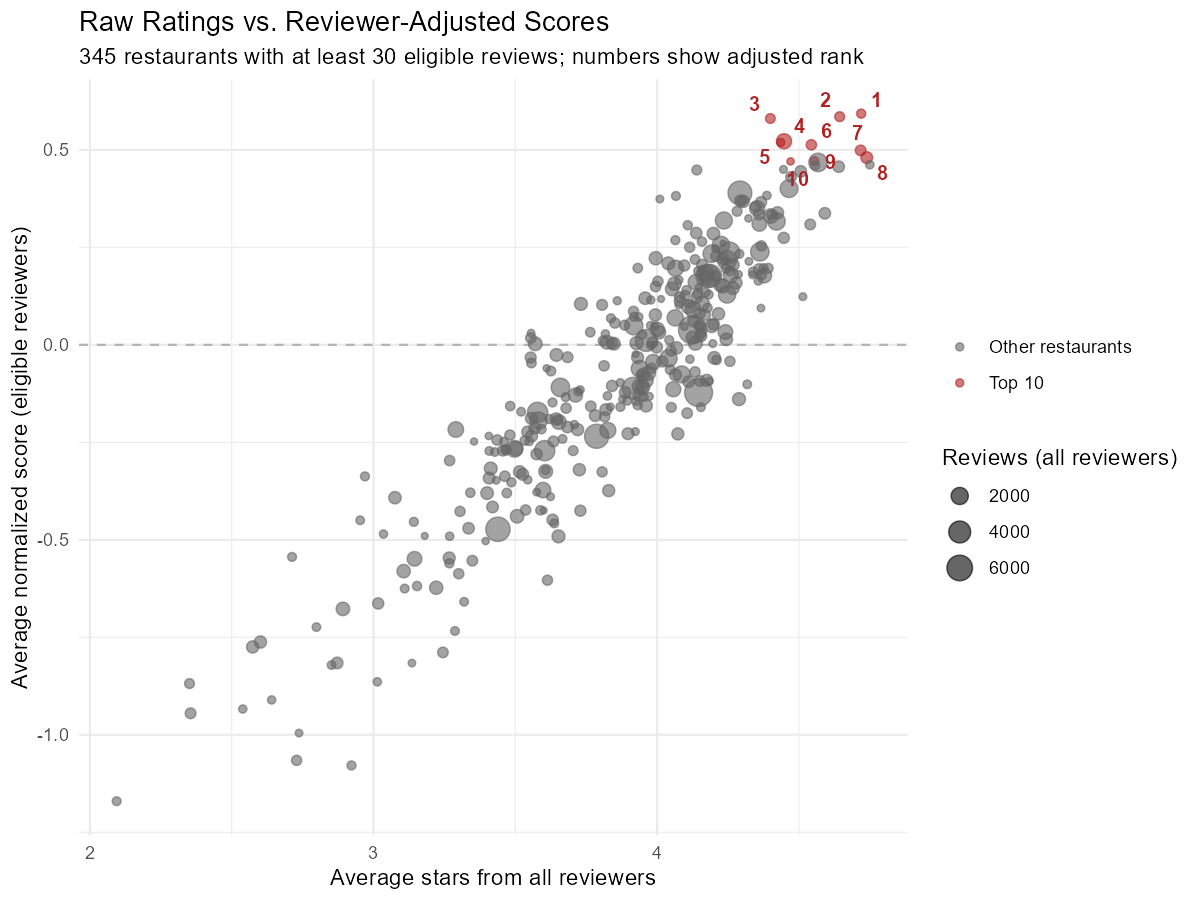
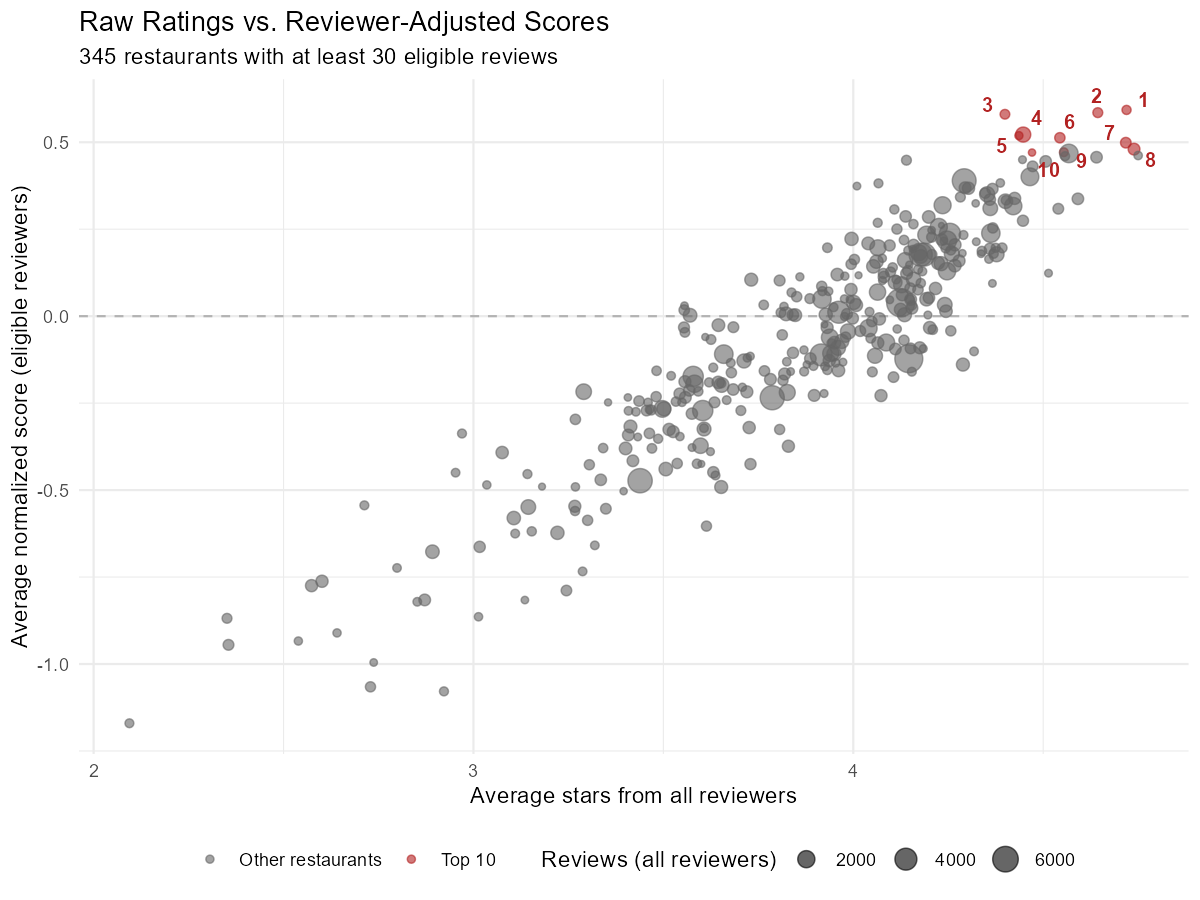
Fix Step 7 chunk and re-render report

diff --git a/yelp_new_orleans_project.md b/yelp_new_orleans_project.md
@@ -5,6 +5,7 @@
 library(tidyverse)
 library(sf)
 library(tigris)
+library(ggrepel)
 options(tigris_use_cache = TRUE)
 dir.create("figures", showWarnings = FALSE)
 ```
@@ -323,6 +324,364 @@ ggsave("figures/tract_map.png", p_tract, width = 8, height = 6, dpi = 150)
 - **What tracts would show.** Tracts give finer detail but spread the
   restaurants too thin for reliable comparison.
 
+## Step 7: All reviewers vs. reviewer-adjusted ratings
+
+This step uses the 656 restaurants inside the official New Orleans
+boundary. The reviews are individual star ratings (`stars` in the review
+table, not the restaurant’s overall rating).
+
+``` r
+study_ids <- new_orleans_map_data |> st_drop_geometry() |> pull(business_id)
+
+study_reviews <- reviews |> filter(business_id %in% study_ids)
+
+c(reviews = nrow(study_reviews),
+  restaurants = n_distinct(study_reviews$business_id),
+  reviewers = n_distinct(study_reviews$user_id))
+```
+
+        reviews restaurants   reviewers 
+         249002         656      138367 
+
+``` r
+all_reviewer_summary <- study_reviews |>
+  group_by(business_id) |>
+  summarise(number_of_reviews_all_reviewers = n(),
+            average_stars_all_reviewers = mean(stars),
+            median_stars_all_reviewers = median(stars),
+            .groups = "drop")
+
+summary(all_reviewer_summary$number_of_reviews_all_reviewers)
+```
+
+       Min. 1st Qu.  Median    Mean 3rd Qu.    Max. 
+        5.0    28.0   111.0   379.6   393.0  7673.0 
+
+### Which reviewers are eligible?
+
+A reviewer with one review in this group has a baseline equal to that
+single rating, so their normalized score is always exactly 0 and carries
+no information. I need a minimum activity level.
+
+``` r
+reviewer_activity <- study_reviews |>
+  count(user_id, name = "reviews_in_selected_categories")
+
+map_dfr(c(1, 2, 3, 5, 10), function(k) {
+  elig <- reviewer_activity |> filter(reviews_in_selected_categories >= k)
+  tibble(
+    min_reviews        = k,
+    reviewers_kept     = nrow(elig),
+    share_of_reviewers = round(nrow(elig) / nrow(reviewer_activity), 3),
+    reviews_kept       = sum(elig$reviews_in_selected_categories),
+    share_of_reviews   = round(sum(elig$reviews_in_selected_categories) /
+                                 nrow(study_reviews), 3)
+  )
+}) |> knitr::kable()
+```
+
+| min_reviews | reviewers_kept | share_of_reviewers | reviews_kept | share_of_reviews |
+|------------:|---------------:|-------------------:|-------------:|-----------------:|
+|           1 |         138367 |              1.000 |       249002 |            1.000 |
+|           2 |          45550 |              0.329 |       156185 |            0.627 |
+|           3 |          21861 |              0.158 |       108807 |            0.437 |
+|           5 |           7066 |              0.051 |        59584 |            0.239 |
+|          10 |           1380 |              0.010 |        25125 |            0.101 |
+
+I used a minimum of **5 reviews** per reviewer. That keeps 7,066
+reviewers (5.1% of reviewers) who wrote 59,584 reviews (23.9% of all
+reviews). A higher cutoff gives each reviewer a more trustworthy
+baseline but discards most of the data: at 10 reviews only 1.0% of
+reviewers and 10.1% of reviews remain. A lower cutoff keeps more reviews
+but with weaker baselines: at 2 reviews, 62.7% of reviews remain, but
+each baseline rests on very little.
+
+### Normalizing each reviewer’s scores
+
+Each reviewer’s baseline is their mean rating across the selected
+restaurants. The normalized score is the rating minus that baseline, so
+it measures whether a reviewer rated a restaurant higher or lower than
+they usually do. It is not a new Yelp rating.
+
+I used the **mean** baseline instead of the median because star ratings
+are whole numbers, so a reviewer’s median can take only five values and
+hides the difference between, for example, a reviewer who averages 3.6
+and one who averages 4.4 (both can have a median of 4).
+
+``` r
+adjust_reviews <- function(min_reviews = 5) {
+  baselines <- study_reviews |>
+    group_by(user_id) |>
+    summarise(reviewer_mean = mean(stars),
+              reviewer_median = median(stars),
+              reviewer_review_count = n(),
+              .groups = "drop")
+
+  study_reviews |>
+    left_join(baselines, by = "user_id") |>
+    filter(reviewer_review_count >= min_reviews) |>
+    mutate(normalized_mean_score = stars - reviewer_mean,
+           normalized_median_score = stars - reviewer_median)
+}
+
+eligible_adjusted_reviews <- adjust_reviews(5)
+
+nrow(eligible_adjusted_reviews)
+```
+
+    [1] 59584
+
+``` r
+# each reviewer's scores average to 0 by construction, so this should be ~0
+mean(eligible_adjusted_reviews$normalized_mean_score)
+```
+
+    [1] -4.961639e-18
+
+### Restaurant-level comparison
+
+``` r
+restaurant_summary <- all_reviewer_summary |>
+  left_join(
+    eligible_adjusted_reviews |>
+      group_by(business_id) |>
+      summarise(number_of_reviews_eligible_reviewers = n(),
+                average_stars_eligible_reviewers = mean(stars),
+                average_normalized_score = mean(normalized_mean_score),
+                median_normalized_score = median(normalized_mean_score),
+                .groups = "drop"),
+    by = "business_id") |>
+  left_join(new_orleans_map_data |> st_drop_geometry() |>
+              select(business_id, business_name), by = "business_id")
+
+sum(is.na(restaurant_summary$number_of_reviews_eligible_reviewers))
+```
+
+    [1] 9
+
+``` r
+map_dfr(c(5, 10, 20, 30), function(k)
+  tibble(min_eligible_reviews = k,
+         restaurants_kept = sum(restaurant_summary$number_of_reviews_eligible_reviewers >= k,
+                                na.rm = TRUE))) |> knitr::kable()
+```
+
+| min_eligible_reviews | restaurants_kept |
+|---------------------:|-----------------:|
+|                    5 |              562 |
+|                   10 |              479 |
+|                   20 |              401 |
+|                   30 |              345 |
+
+Nine restaurants have no eligible reviews at all and drop out of the
+adjusted analysis. Among the rest, the number of eligible reviews per
+restaurant varies a lot (median 36, but a quarter have 9 or fewer), so I
+need a minimum number of eligible reviews before ranking a restaurant.
+
+### How sensitive is the top 10 to that minimum?
+
+``` r
+top10_ids <- function(k) {
+  restaurant_summary |>
+    filter(number_of_reviews_eligible_reviewers >= k) |>
+    slice_max(average_normalized_score, n = 10, with_ties = FALSE) |>
+    pull(business_id)
+}
+
+cutoffs <- c(5, 10, 20, 30)
+tops <- map(cutoffs, top10_ids)
+overlap <- outer(seq_along(cutoffs), seq_along(cutoffs),
+                 Vectorize(function(i, j) length(intersect(tops[[i]], tops[[j]]))))
+dimnames(overlap) <- list(paste("min", cutoffs), paste("min", cutoffs))
+knitr::kable(overlap, caption = "Restaurants shared by the top-10 lists at each minimum")
+```
+
+|        | min 5 | min 10 | min 20 | min 30 |
+|:-------|------:|-------:|-------:|-------:|
+| min 5  |    10 |      4 |      0 |      0 |
+| min 10 |     4 |     10 |      4 |      3 |
+| min 20 |     0 |      4 |     10 |      7 |
+| min 30 |     0 |      3 |      7 |     10 |
+
+Restaurants shared by the top-10 lists at each minimum
+
+The top 10 depends heavily on the minimum. Compared with the list at a
+minimum of 20 eligible reviews, the lists at 5, 10, and 30 share 0, 4,
+and 7 restaurants. At a minimum of 5, every restaurant in the top 10 had
+only 6 to 16 eligible reviews, so a few generous ratings were enough to
+put it on top. The three restaurants that drop out between 20 and 30 had
+only 20, 21, and 24 eligible reviews. I chose **30** because it removes
+the thinnest evidence, and I picked it from this sensitivity check and
+not by looking for a particular list. The cost is that only 345 of 656
+restaurants (52.6%) can be ranked.
+
+``` r
+min_n <- 30
+
+ranked <- restaurant_summary |>
+  filter(number_of_reviews_eligible_reviewers >= min_n) |>
+  mutate(rank_raw      = rank(-average_stars_all_reviewers, ties.method = "min"),
+         rank_adjusted = rank(-average_normalized_score,    ties.method = "min"),
+         rank_change   = rank_raw - rank_adjusted) |>
+  arrange(rank_adjusted)
+
+nrow(ranked)
+```
+
+    [1] 345
+
+## Answer: the top 10 restaurants
+
+``` r
+top10 <- ranked |> slice_head(n = 10) |>
+  select(business_id, business_name, rank_adjusted)
+
+top10_pts <- new_orleans_map_data |>
+  select(business_id) |>
+  inner_join(top10, by = "business_id") |>
+  st_transform(st_crs(zctas))
+
+top10_table <- top10_pts |>
+  st_join(zctas, join = st_within) |>
+  st_drop_geometry() |>
+  left_join(ranked |> select(business_id, number_of_reviews_eligible_reviewers,
+                             average_stars_all_reviewers, average_normalized_score),
+            by = "business_id") |>
+  arrange(rank_adjusted) |>
+  select(Rank = rank_adjusted, Restaurant = business_name, ZCTA = zcta,
+         `Eligible reviews` = number_of_reviews_eligible_reviewers,
+         `Avg stars (all reviewers)` = average_stars_all_reviewers,
+         `Adjusted score` = average_normalized_score)
+
+knitr::kable(top10_table, digits = 2)
+```
+
+| Rank | Restaurant | ZCTA | Eligible reviews | Avg stars (all reviewers) | Adjusted score |
+|---:|:---|:---|---:|---:|---:|
+| 1 | Tito’s Ceviche & Pisco | 70115 | 92 | 4.72 | 0.59 |
+| 2 | Avery’s On Tulane | 70119 | 100 | 4.64 | 0.59 |
+| 3 | Meauxbar | 70116 | 74 | 4.40 | 0.58 |
+| 4 | Restaurant August | 70130 | 403 | 4.45 | 0.52 |
+| 5 | Fiorella’s the Original | 70122 | 67 | 4.44 | 0.52 |
+| 6 | Brigtsen’s Restaurant | 70118 | 168 | 4.54 | 0.51 |
+| 7 | Sweet Soulfood | 70119 | 66 | 4.72 | 0.50 |
+| 8 | Heard Dat Kitchen | 70113 | 113 | 4.74 | 0.48 |
+| 9 | Castnet Seafood | 70127 | 67 | 4.55 | 0.47 |
+| 10 | Gabrielle Restaurant | 70119 | 37 | 4.47 | 0.47 |
+
+``` r
+xy <- st_coordinates(top10_pts)
+top10_labels <- st_drop_geometry(top10_pts) |> mutate(x = xy[, 1], y = xy[, 2])
+
+city_zctas <- zctas |> filter(zcta %in% zcta_summary$zcta)
+bb <- st_bbox(st_buffer(st_union(top10_pts), 4000))
+
+p_top10 <- ggplot() +
+  geom_sf(data = city_zctas, fill = "grey95", color = "grey50", linewidth = 0.3) +
+  geom_sf(data = top10_pts, color = "firebrick", size = 3) +
+  geom_text_repel(data = top10_labels, aes(x = x, y = y, label = rank_adjusted),
+                  size = 4, fontface = "bold", min.segment.length = 0) +
+  coord_sf(xlim = c(bb["xmin"], bb["xmax"]), ylim = c(bb["ymin"], bb["ymax"])) +
+  labs(title = "Top 10 seafood & Louisiana restaurants (reviewer-adjusted)",
+       subtitle = "ZIP code area (ZCTA) boundaries; numbers show adjusted rank") +
+  theme_minimal()
+ggsave("figures/top10_map.png", p_top10, width = 8, height = 6, dpi = 150)
+```
+
+![Top 10 restaurants by ZIP code area](figures/top10_map.png)
+
+The ten restaurants fall in eight different ZCTAs. ZCTA 70119 has the
+most (3), and the other seven have one each. ZCTA 70130, which holds 213
+of the 656 restaurants (32%), has only one of the top ten. These scores
+are close together (ranks 8 to 10 differ by about 0.01), so I treat the
+list as a group and not a strict order.
+
+## Raw ratings vs. reviewer-adjusted scores
+
+``` r
+plot_data <- ranked |>
+  mutate(group = if_else(rank_adjusted <= 10, "Top 10", "Other restaurants"))
+
+p_scatter <- ggplot(plot_data,
+       aes(x = average_stars_all_reviewers, y = average_normalized_score)) +
+  geom_hline(yintercept = 0, color = "grey70", linetype = "dashed") +
+  geom_point(aes(size = number_of_reviews_all_reviewers, color = group), alpha = 0.6) +
+  scale_color_manual(values = c("Other restaurants" = "grey40", "Top 10" = "firebrick"),
+                     name = NULL) +
+  geom_text_repel(data = filter(plot_data, group == "Top 10"),
+                  aes(label = rank_adjusted), size = 3.5, fontface = "bold",
+                  color = "firebrick") +
+  labs(title = "Raw Ratings vs. Reviewer-Adjusted Scores",
+       subtitle = "345 restaurants with at least 30 eligible reviews",
+       x = "Average stars from all reviewers",
+       y = "Average normalized score (eligible reviewers)",
+       size = "Reviews (all reviewers)") +
+  theme_minimal() +
+  theme(legend.position = "bottom")
+ggsave("figures/scatter_raw_vs_adjusted.png", p_scatter, width = 8, height = 6, dpi = 150)
+```
+
+![Raw vs. adjusted](figures/scatter_raw_vs_adjusted.png)
+
+The raw average and the adjusted score are strongly correlated (r =
+0.91), so the adjustment mostly preserves the overall ordering. Part of
+that is built in, because both measures come from the same star ratings.
+Restaurants with similar raw averages can still differ by several tenths
+of a point in adjusted score, which is why rankings in the middle of the
+list change a lot even though the top stays similar.
+
+## Which restaurants change rank the most?
+
+``` r
+baseline_by_restaurant <- eligible_adjusted_reviews |>
+  group_by(business_id) |>
+  summarise(avg_reviewer_baseline = mean(reviewer_mean), .groups = "drop")
+
+ranked |>
+  left_join(baseline_by_restaurant, by = "business_id") |>
+  arrange(desc(abs(rank_change))) |>
+  slice_head(n = 10) |>
+  mutate(eligible_minus_all = average_stars_eligible_reviewers - average_stars_all_reviewers) |>
+  select(business_name, number_of_reviews_eligible_reviewers, avg_reviewer_baseline,
+         average_stars_all_reviewers, average_normalized_score,
+         eligible_minus_all, rank_raw, rank_adjusted, rank_change) |>
+  knitr::kable(digits = 2)
+```
+
+| business_name | number_of_reviews_eligible_reviewers | avg_reviewer_baseline | average_stars_all_reviewers | average_normalized_score | eligible_minus_all | rank_raw | rank_adjusted | rank_change |
+|:---|---:|---:|---:|---:|---:|---:|---:|---:|
+| Gallier Restaurant & Oyster Bar | 89 | 4.04 | 4.29 | -0.14 | -0.39 | 51 | 218 | -167 |
+| Marjie’s Grill | 59 | 4.12 | 4.32 | -0.10 | -0.30 | 46 | 200 | -154 |
+| Mat & Naddie’s Restaurant | 55 | 3.90 | 4.01 | 0.37 | 0.26 | 154 | 23 | 131 |
+| Corporation Bar & Grill | 48 | 4.06 | 4.15 | -0.16 | -0.26 | 99 | 228 | -129 |
+| Rio Mar Restaurant | 37 | 3.83 | 3.56 | 0.03 | 0.31 | 269 | 147 | 122 |
+| The Governor | 44 | 4.00 | 4.26 | -0.04 | -0.30 | 59 | 178 | -119 |
+| La Crepe Nanou | 119 | 3.94 | 3.93 | 0.20 | 0.20 | 184 | 66 | 118 |
+| New Orleans Hamburger & Seafood Co | 58 | 3.86 | 3.55 | 0.02 | 0.32 | 270 | 152 | 118 |
+| Ruby Slipper Cafe | 135 | 4.02 | 4.07 | -0.23 | -0.28 | 136 | 253 | -117 |
+| Gautreau’s Restaurant | 87 | 3.86 | 4.07 | 0.38 | 0.18 | 138 | 22 | 116 |
+
+Every restaurant in this list has at least 37 eligible reviews, so small
+samples are a weaker explanation here than for the lower cutoffs.
+Several movers fit a reviewer-behavior explanation. Gallier Restaurant &
+Oyster Bar, Marjie’s Grill, and Corporation Bar & Grill fell 129 to 193
+places and are rated by fairly generous reviewers (average baselines of
+4.04, 4.12, and 4.06) who also rated them below their own usual scores.
+Mat & Naddie’s, Rio Mar, and New Orleans Hamburger & Seafood Co. rose
+122 to 146 places and are rated by tougher reviewers (baselines of 3.90,
+3.83, and 3.86). A 4.3 from a generous reviewer says less than a 4.0
+from a tough one. The other four large movers show a different
+mechanism. Gautreau’s and La Crepe Nanou rose 116 and 118 places, and
+Ruby Slipper Cafe (one of its two locations) and The Governor fell 117
+and 119, but the average baseline of their reviewers is close to the
+same for all four (3.86 to 4.02). What differs is that the reviewers
+with at least five reviews rated the risers 0.18 to 0.20 stars higher
+than all reviewers did, and rated the fallers 0.28 to 0.30 stars lower.
+These moves therefore reflect disagreement between frequent reviewers
+and the general crowd as much as reviewer-level normalization. The rank
+changes also overstate how different the scores are, because many
+restaurants sit close to 0 and small score differences shift many ranks.
+
 ## Limitations
 
 - **Enough restaurants to compare.** 12 of 17 ZCTAs have 10 or more
@@ -339,4 +698,4 @@ ggsave("figures/tract_map.png", p_tract, width = 8, height = 6, dpi = 150)
   ZCTAs have very few restaurants (70129 has only 2), so their average
   ratings are not reliable.
 - **What tracts would show.** Tracts give finer detail but spread the
-  restaurants too thin for reliable comparison.
+  restaurants too thin for reliable
